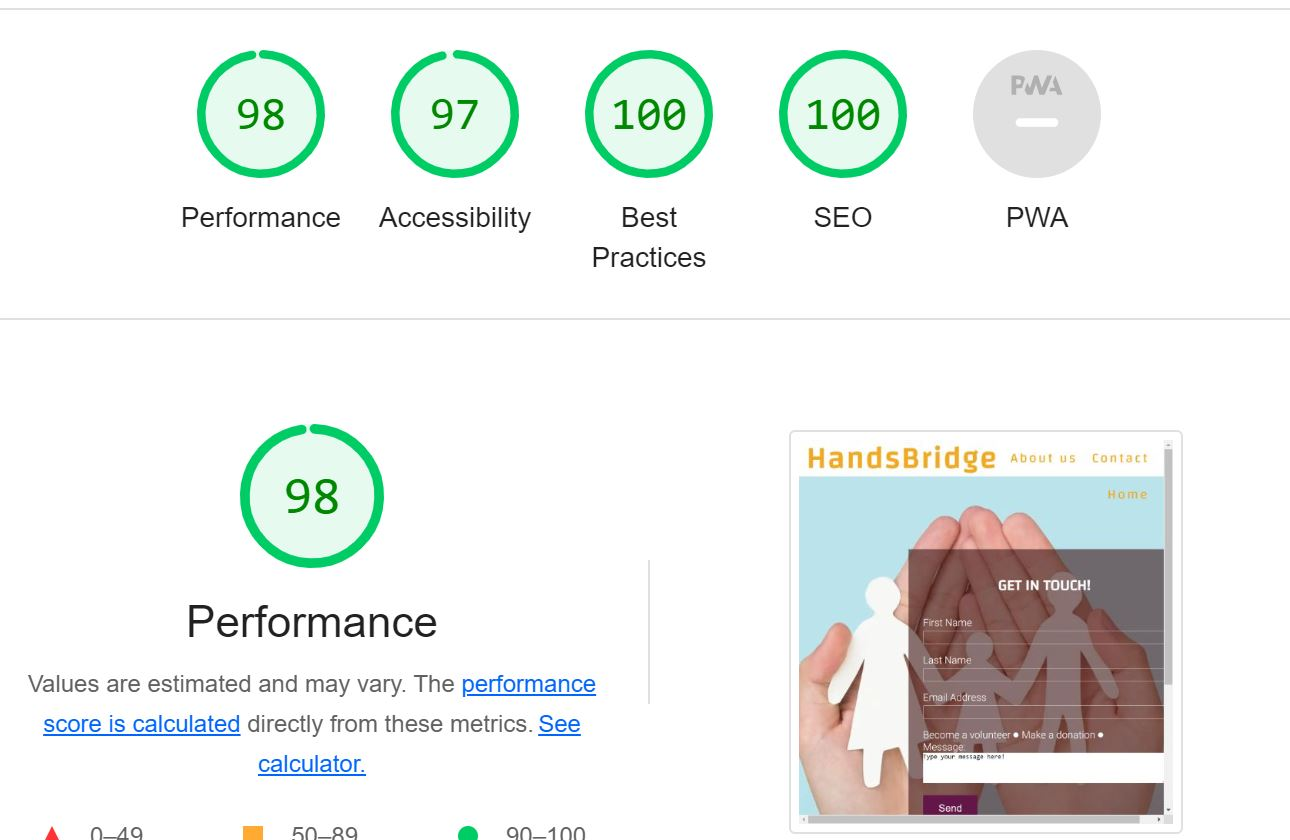
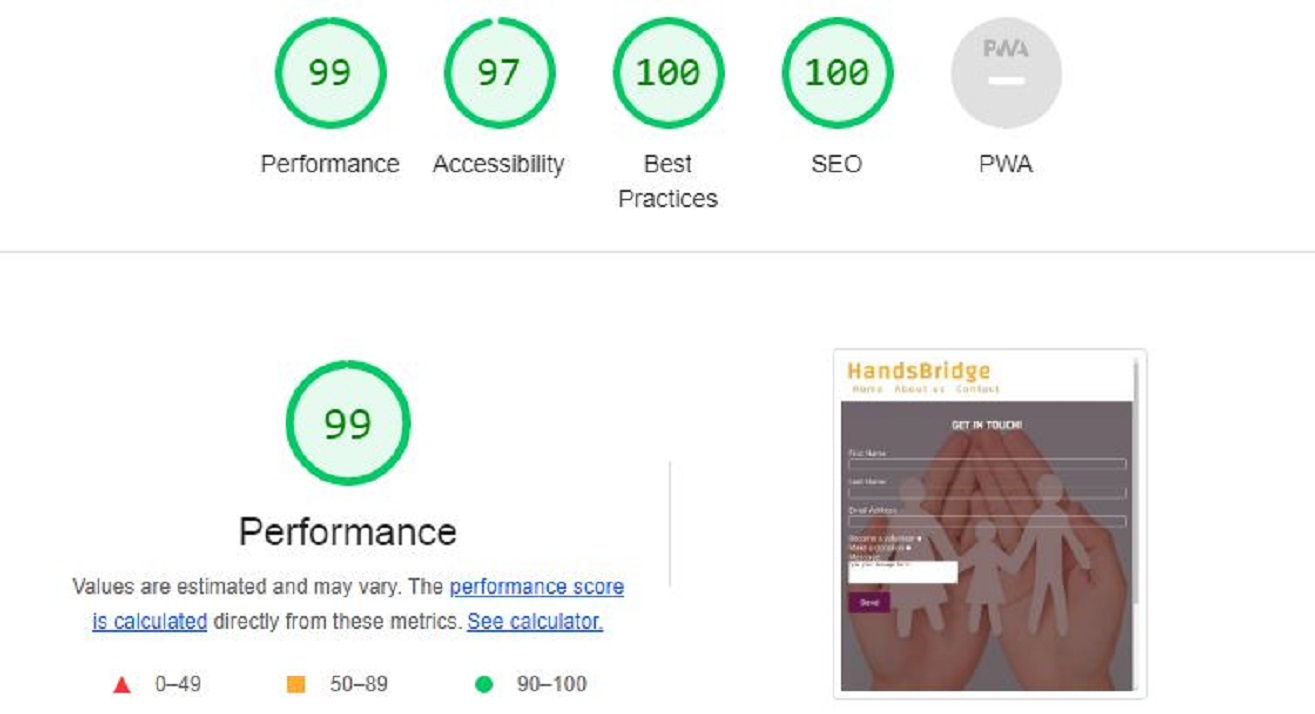
Add fixed bugs on readme.md file.

diff --git a/README.md b/README.md
@@ -112,9 +112,9 @@
 - CSS
   No errors were found when passing through the official [W3C CSS validator](/assets/images/CssValidator.jpg)
 
-### Unfixed Bugs
+### Fixed Bugs
 
-- The mobile responsiveness needs to be fixed.
+- Initialy the page presented responsiveness issues on mobile devices that were fixed.
 
 
 ## Deployment 
